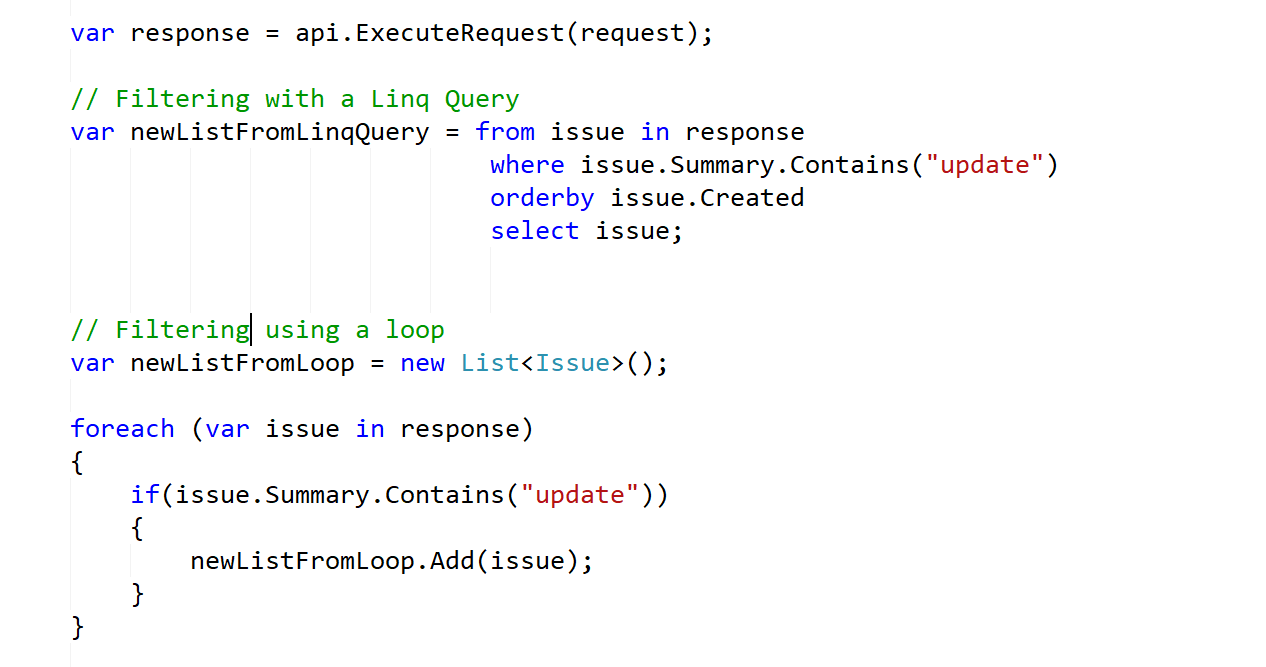
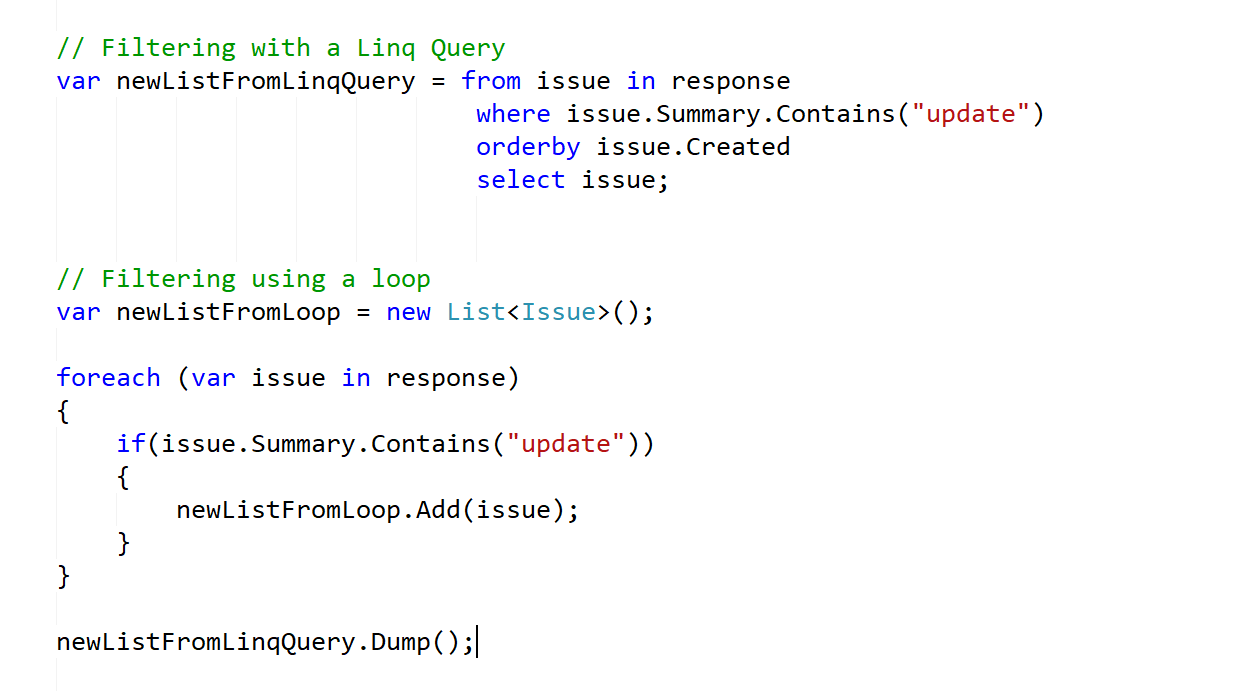
Added more detail to Dump() and Linq select projection

diff --git a/linqpad/LinqPad QuickStart.md b/linqpad/LinqPad QuickStart.md
@@ -56,4 +56,15 @@ The code below show how you can filter a list of issues that contain the word 'u
 
 ![](img/query_code.png)
 
-Finally, LinqPad adds the `Dump()` method to every object. The `Dump()` displays the state (contents) of an object in LinqPad's viewer pane. Calling dump on a list of issues will display the whole list.
+Finally, LinqPad adds the `Dump()` method to every object. The `Dump()` displays the state (contents) of an object in LinqPad's viewer pane. Calling dump on a list of issues will display the whole list. The query above returns two objects which are then dumped (see below).
+
+![](img/dump_output.png)
+
+
+If you're using Linq you can select fewer fields in the returned object. 
+
+![](img/linq_with_projection.png)
+
+This makes the data returend more manageable.
+
+![](img/dump_output_reduced.png)
